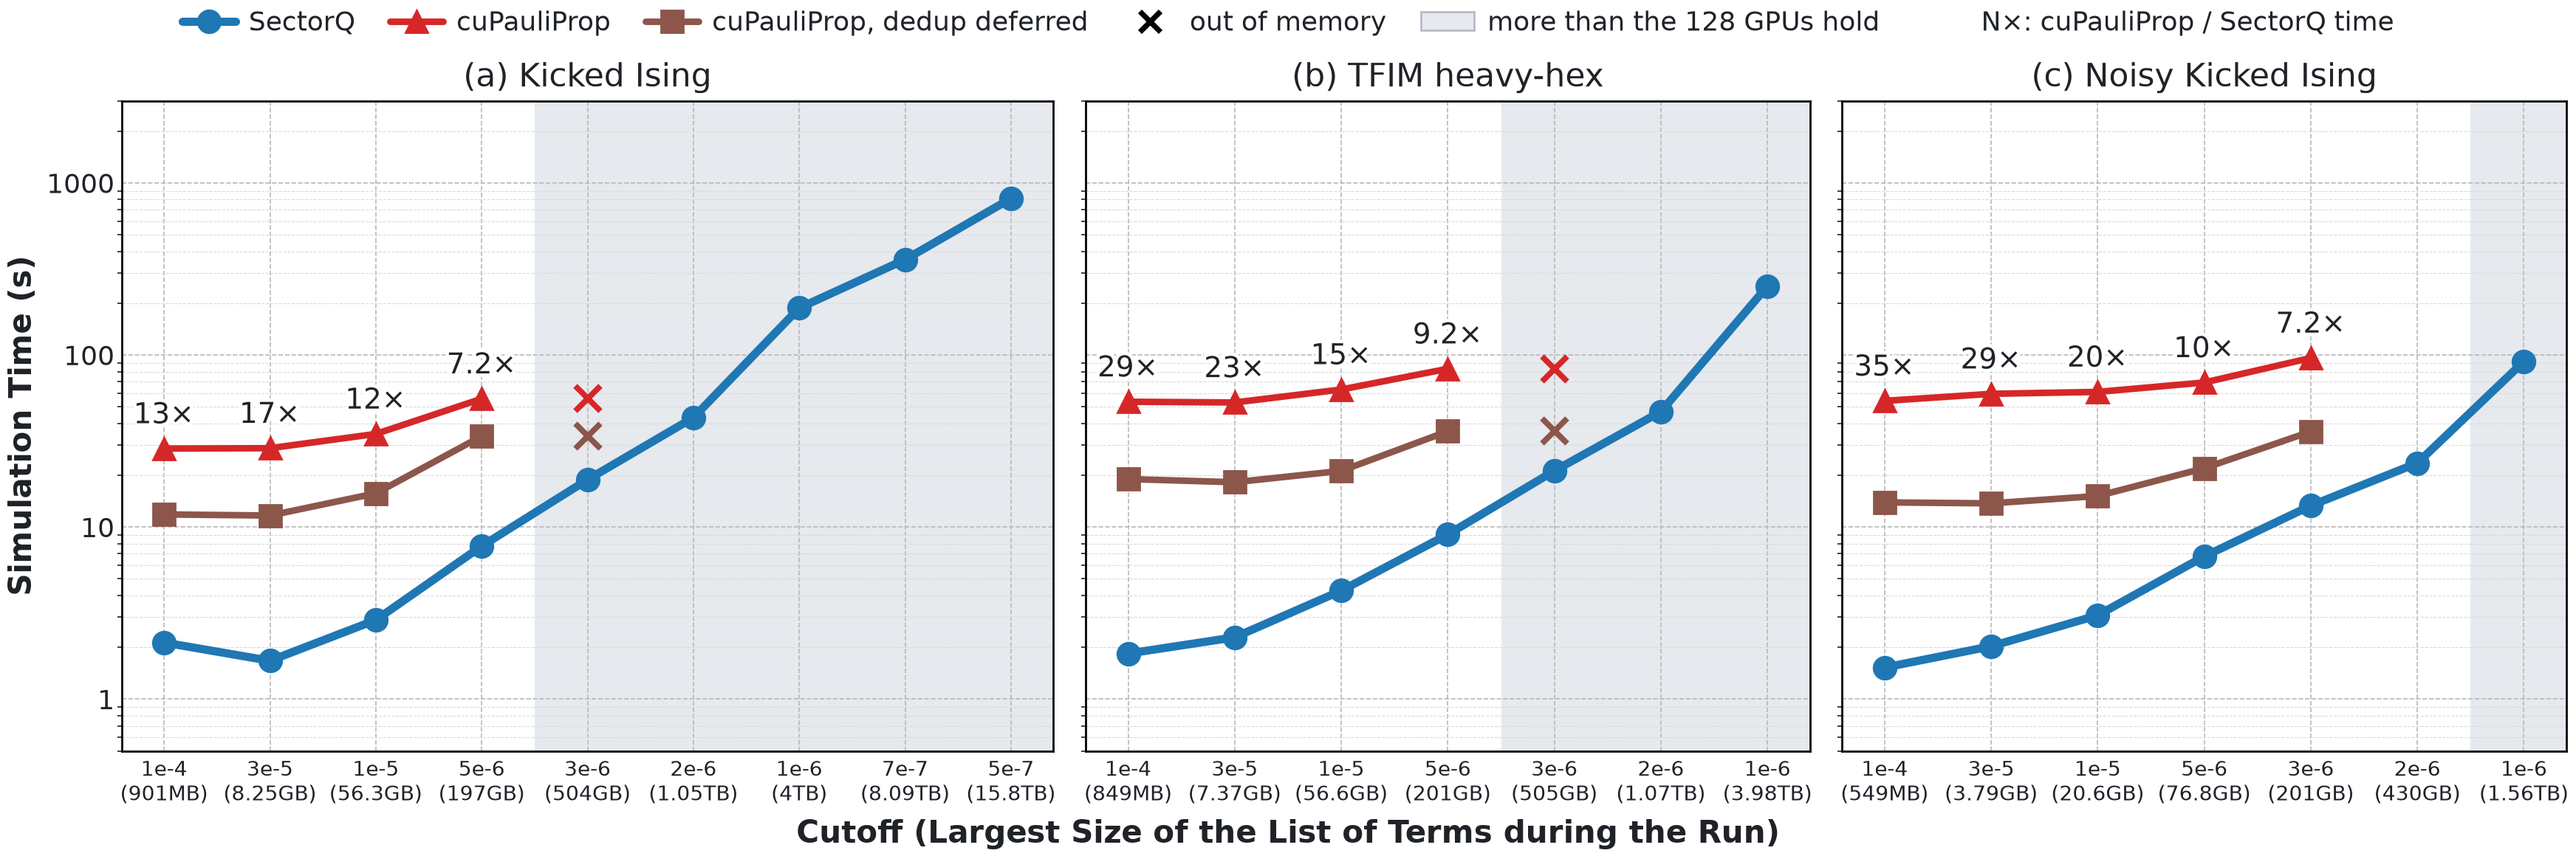
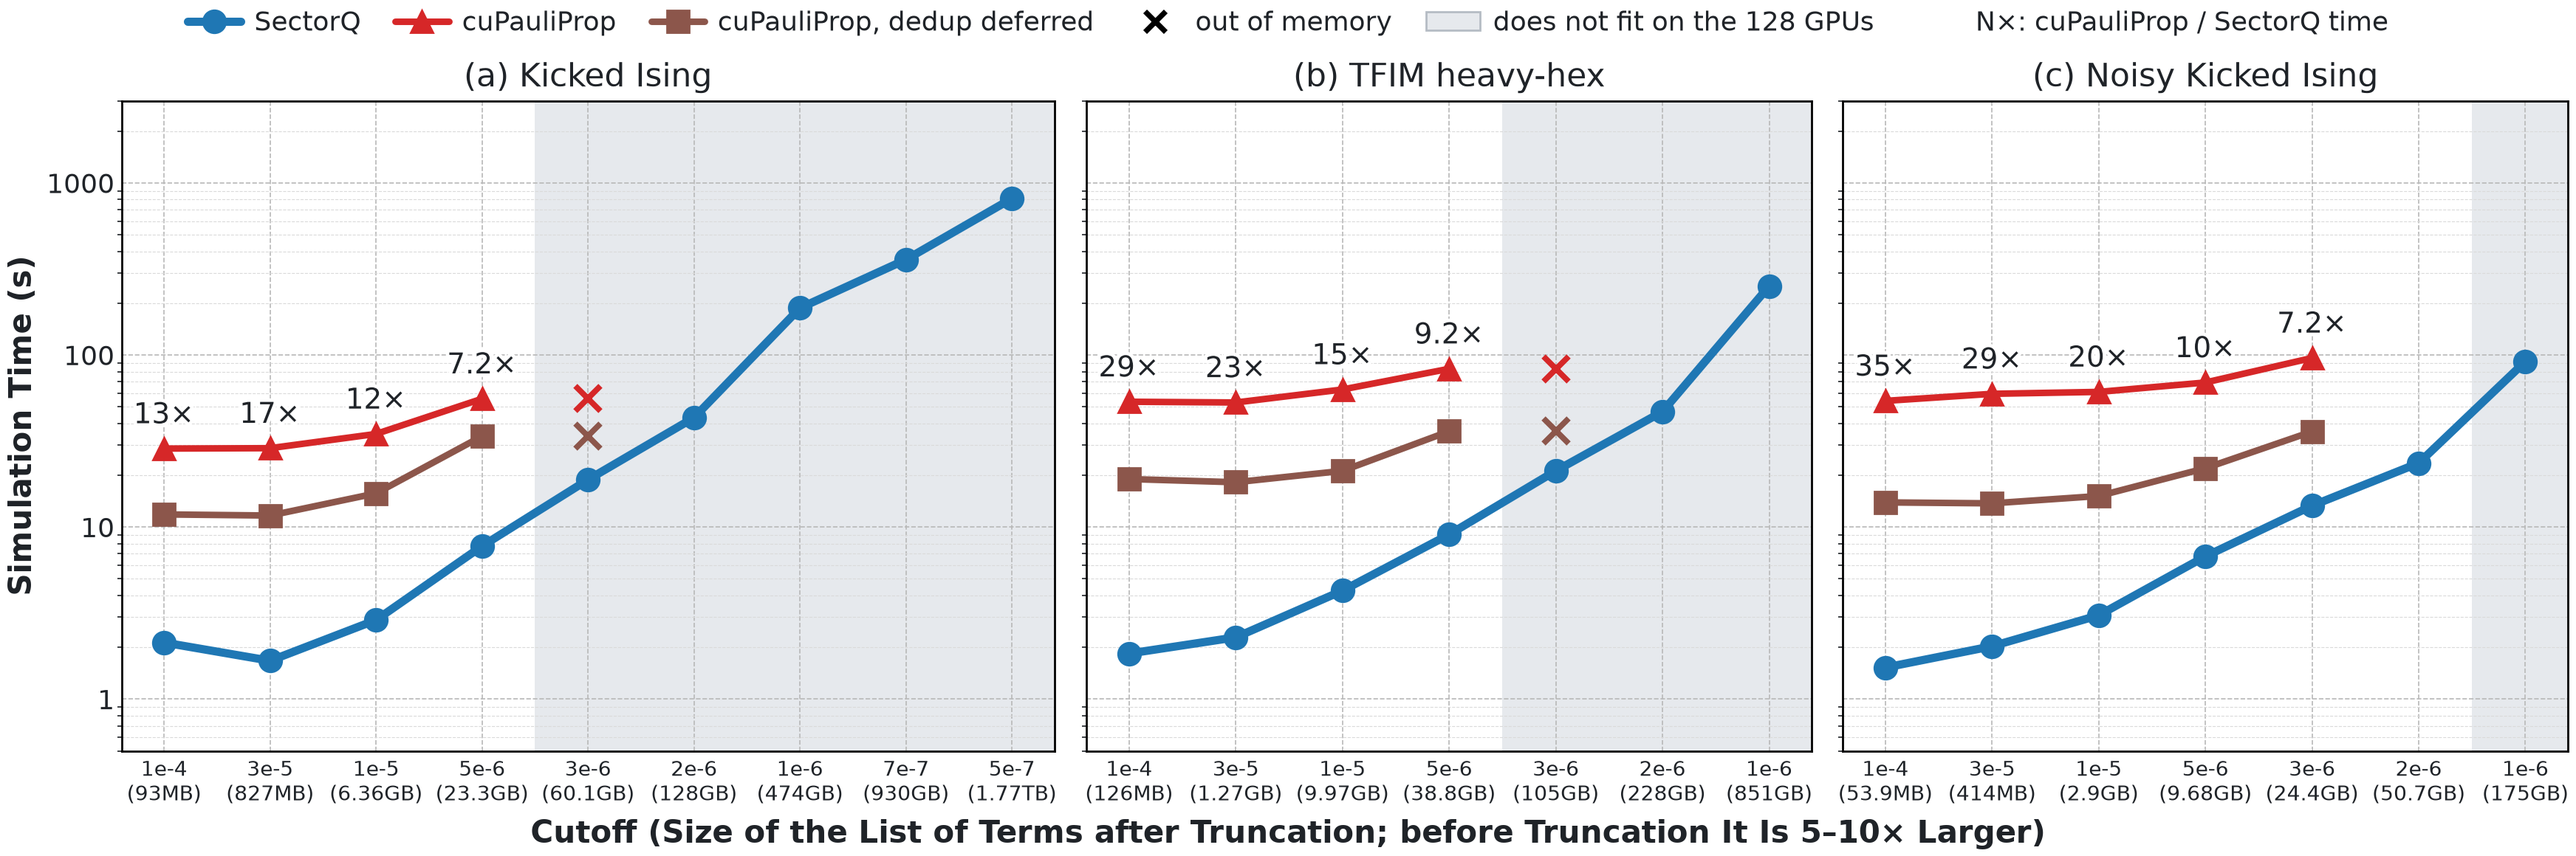
Deck circuit figures: the size after truncation under a cutoff, the shaded part for the GPUs
The number under a cutoff is again the size of the list of terms after truncation: what stays in memory, the same
for every implementation, and the size used in the rest of the README. The largest size before truncation (3-16
times larger) is no size anything holds at once in SectorQ, which expands one sector per GPU; printed as the size of
the problem it read as 4 TB on a machine with 1 TB. The x label states the factor, and the shaded part of a panel is
where the list before truncation does not fit on the GPUs.

diff --git a/figures/make_deck_figures.py b/figures/make_deck_figures.py
@@ -603,16 +603,35 @@ BEYOND = "#E6E9ED"
 
 
 def size_ticks(ax, c, peaks, g):
-    """The tick labels of a panel as the cutoff and the size of the problem: the largest size its list of terms
-    reaches during the run (the largest number of terms times the bytes of a term), which is the same for every
-    implementation with this truncation rule. The part of the panel where the list is larger than `g` GPUs hold at
-    once is shaded."""
-    cuts = [t.get_text().split("\n")[0] for t in ax.get_xticklabels()]
+    """The tick labels of a panel as the cutoff and one size: that of the list of terms after truncation, which is what
+    stays in memory (the third line of cut_ticks). While the gates between two truncations are applied the list is
+    several times larger; where that larger list no longer fits on `g` GPUs the panel is shaded. Returns the factors
+    (largest number of terms / number after truncation) of the labelled problems."""
+    labels = [t.get_text().split("\n") for t in ax.get_xticklabels()]
     size = ax.get_xticklabels()[0].get_fontsize()
-    ax.set_xticklabels([x + "\n" + (f"({mf.data_size(peaks[x] * mf.term_bytes(c))})" if x in peaks else "") for x in cuts], fontsize=size)
+    ax.set_xticklabels([l[0] + "\n" + (l[2] if len(l) > 2 else "") for l in labels], fontsize=size)
+    cuts = [l[0] for l in labels]
     over = [i for i, x in enumerate(cuts) if peaks.get(x, 0) > g * GPU_TERMS]
     if over:
         ax.axvspan(over[0] - 0.5, ax.get_xlim()[1], color=BEYOND, zorder=0, linewidth=0)
+    kept = {x: gkept(c, x) for x in cuts}
+    return [peaks[x] / kept[x] for x in cuts if x in peaks and kept[x]]
+
+
+def gkept(c, x):
+    """Terms after truncation (at the window boundaries) of one problem, from any SectorQ run of it."""
+    n = mf.gterms(campaign(), c, x)
+    if n:
+        return n
+    for r in scaling_jobs():
+        if r["kind"] == "engine" and r["circuit"] == mf.BIG_NAME.get(c) and r["opt"].get("--coef") == x and mf.ok(r) and r.get("boundary"):
+            return r["boundary"]
+    return None
+
+
+def xl_sizes(factors):
+    return (f"Cutoff (Size of the List of Terms after Truncation; before Truncation It Is {min(factors):.0f}–{max(factors):.0f}× Larger)"
+            if factors else "Cutoff (Size of the List of Terms after Truncation)")
 
 
 def stops(reasons):
@@ -621,7 +640,6 @@ def stops(reasons):
     return "out of memory" if reasons == {"out of memory"} else "out of memory or over 40 min"
 
 
-XL2 = "Cutoff (Largest Size of the List of Terms during the Run)"
 
 
 def d_circuits_all():
@@ -643,6 +661,7 @@ def d_circuits_all():
         if r["kind"] == "engine" and mf.ok(r) and r.get("boundary"):
             more.setdefault({v: k for k, v in mf.BIG_NAME.items()}.get(r["circuit"]), {})[r["opt"]["--coef"]] = r["boundary"]
     rows = mf.g_circuits(campaign(), axes=panels, which=which, keep=slide_ladder, sizes=more)
+    factors = []
     for j, ax in enumerate(panels):
         for t in ax.get_xticklabels():
             t.set_fontsize(13.5)
@@ -652,15 +671,15 @@ def d_circuits_all():
         ax.set_yticks([1, 10, 100, 1000])
         ax.set_xlabel("")
         ticks = [t.get_text().split("\n")[0] for t in ax.get_xticklabels()]
-        size_ticks(ax, which[j], peaks_of(which[j], ticks), 16)
+        factors += size_ticks(ax, which[j], peaks_of(which[j], ticks), 16)
         ours, cupp = dict(rows[3 * j][2]), dict(rows[3 * j + 1][2])
         for x in ticks:
             if x in ours and x in cupp:
                 value(ax, ticks.index(x), cupp[x], mf.times(cupp[x], ours[x]), dy=8, size=13)
-    fig.supxlabel(XL2, fontsize=15, fontweight="bold")
+    fig.supxlabel(xl_sizes(factors), fontsize=15, fontweight="bold")
     e = entries(fig, panels[0])
     e[-1] = (e[-1][0], stops(r[3][1] for r in rows if r[3]))
-    e += [(Patch(facecolor=BEYOND, edgecolor="#B5BCC4"), "more than the 16 GPUs hold"),
+    e += [(Patch(facecolor=BEYOND, edgecolor="#B5BCC4"), "does not fit on the 16 GPUs"),
           (Line2D([0], [0], color="none"), "N×: cuPauliProp / SectorQ time")]
     fig.legend([a for a, _ in e], [b for _, b in e], loc="upper center", bbox_to_anchor=(0.5, 1 - 0.07 / 5.8), ncol=len(e), fontsize=13,
                columnspacing=1.3, handlelength=2.0, handletextpad=0.5, borderpad=0, borderaxespad=0, frameon=False)
@@ -696,7 +715,7 @@ def circuits_big(g, ladder=("1e-4", "3e-5", "1e-5", "5e-6", "3e-6", "2e-6", "1e-
     fig = plt.figure(figsize=(17.44, 5.8), layout="constrained")
     fig.get_layout_engine().set(w_pad=0.05, h_pad=0.04, wspace=0.03, rect=(0, 0, 1, 0.935))     # the legend line above
     grid = fig.add_gridspec(1, 3, width_ratios=[len(cuts[c]) for c, _ in mf.G3])
-    panels, rows, why = [], {}, set()
+    panels, rows, why, factors = [], {}, set(), []
     for j, (c, title) in enumerate(mf.G3):
         ax = fig.add_subplot(grid[0, j])
         panels.append(ax)
@@ -720,7 +739,7 @@ def circuits_big(g, ladder=("1e-4", "3e-5", "1e-5", "5e-6", "3e-6", "2e-6", "1e-
         ax.set_xticks(range(len(cuts[c])))
         ax.set_xticklabels(mf.cut_ticks(G, c, cuts[c], more=more), fontsize=13.5)
         ax.set_xlim(-0.4, len(cuts[c]) - 0.6)
-        size_ticks(ax, c, peak, g)
+        factors += size_ticks(ax, c, peak, g)
         ax.set_ylim(0.5, 3000)
         ax.set_yticks([1, 10, 100, 1000])
         ax.tick_params(axis="y", labelsize=13, labelleft=(j == 0))
@@ -728,10 +747,10 @@ def circuits_big(g, ladder=("1e-4", "3e-5", "1e-5", "5e-6", "3e-6", "2e-6", "1e-
         for i, x in enumerate(cuts[c]):                     # how many times as long the default mode takes as SectorQ
             if x in rows[c, "ours"] and x in rows[c, "cupp"]:
                 value(ax, i, rows[c, "cupp"][x], mf.times(rows[c, "cupp"][x], rows[c, "ours"][x]), dy=9, size=14)
-    fig.supxlabel(XL2, fontsize=15, fontweight="bold")
+    fig.supxlabel(xl_sizes(factors), fontsize=15, fontweight="bold")
     e = entries(fig, panels[0])
     e[-1] = (e[-1][0], stops(why))
-    e += [(Patch(facecolor=BEYOND, edgecolor="#B5BCC4"), f"more than the {g} GPUs hold"),
+    e += [(Patch(facecolor=BEYOND, edgecolor="#B5BCC4"), f"does not fit on the {g} GPUs"),
           (Line2D([0], [0], color="none"), "N×: cuPauliProp / SectorQ time")]
     fig.legend([a for a, _ in e], [b for _, b in e], loc="upper center", bbox_to_anchor=(0.5, 1 - 0.07 / 5.8), ncol=len(e), fontsize=13,
                columnspacing=1.3, handlelength=2.0, handletextpad=0.5, borderpad=0, borderaxespad=0, frameon=False)
